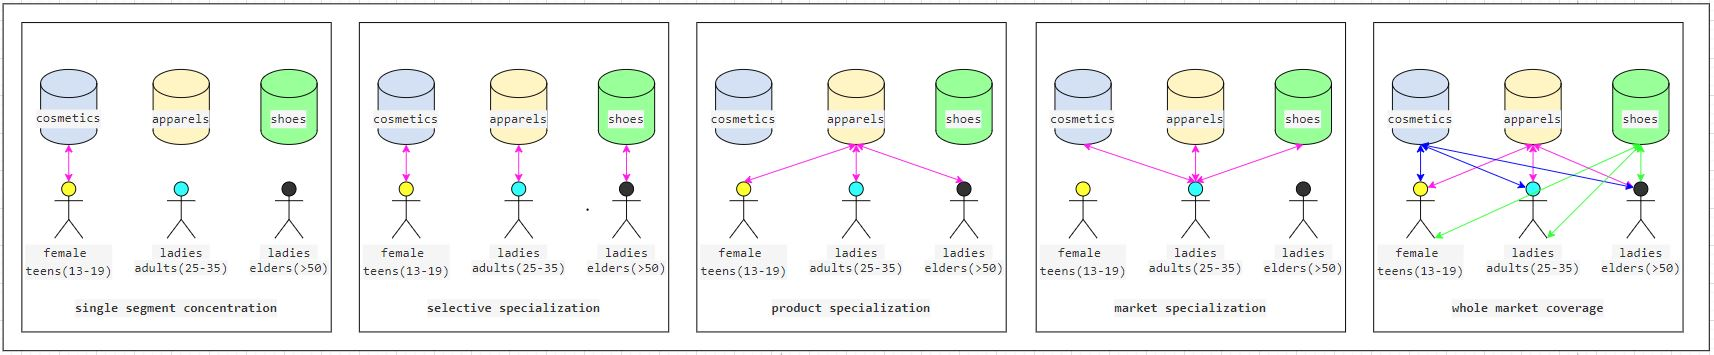
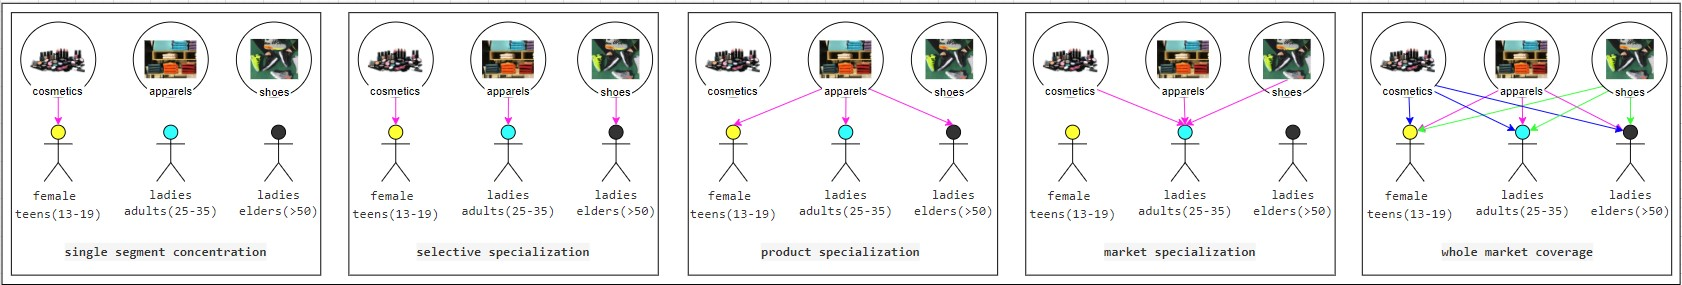
more

diff --git a/index.html b/index.html
@@ -103,11 +103,8 @@
     # Product specialization
     # Market specialization 
     # Whole market coverage
-- Eg for Targeting Strategies</u>, a hypothetical company which has 
-    # 3 product lines(cosmetics, apparels, shoes)
-    # bases of segmentation is age & gender 
-    # 3 targeted segments - female teens(13-19), ladies of adults(25-35) and elders(more than 50)
-<img src="images/targeting-strategies.JPG" alt="" width="85%">
+- An eg for Targeting Strategies, a hypothetical company which has 3 product lines, age & gender as the bases of segments and 3 targeted segments
+<img src="images/targeting-strategies.JPG" alt="" width="100%">
 <hr>
 <b id="id_differentiation_detail">Differentiation</b>
 - Differentiation is the act of designing a set of meaningful differences to distinguish the company’s offerings from competitor’s offerings
